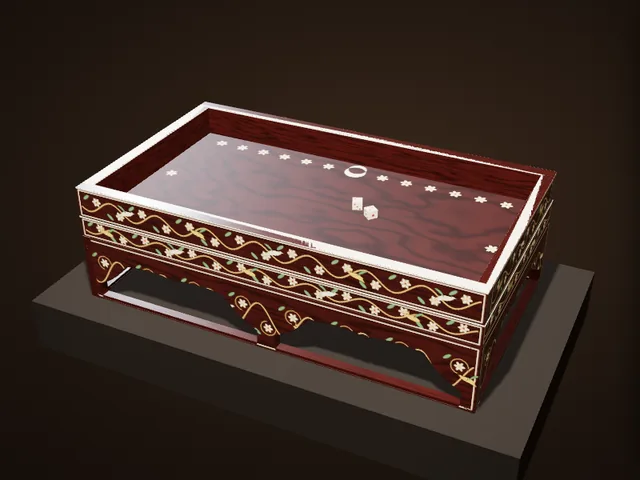
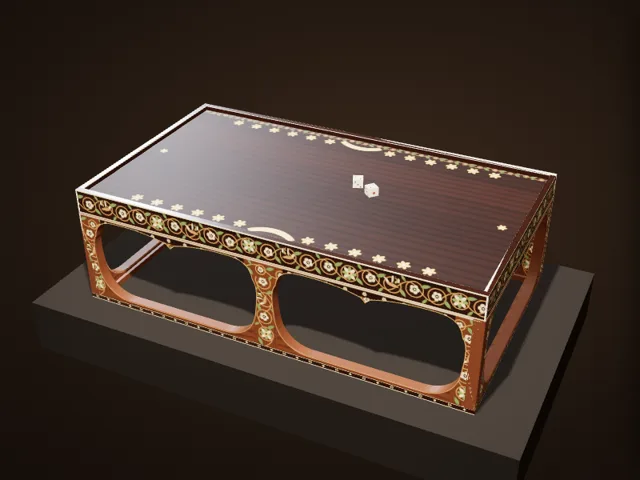
博物館：木画紫檀双六局を正倉院の写真に合わせて作り直し（床脚の刳り形とくびれた柱、盤の側面の高さ、盤面の三日月と花、木画）
Claude-Session: https://claude.ai/code/session_01EiWRAZTxRF5M5nk5vdR2jJ

diff --git a/atlas/museum/ex/sugoroku.js b/atlas/museum/ex/sugoroku.js
@@ -1,98 +1,148 @@
 /* 所蔵品：木画紫檀双六局（正倉院 北倉37） — units: 1 = 1 cm; 54.3 × 31.0 cm, 16.7 cm high (the Shōsōin's record).
-   A ban-sugoroku board listed in the Kokka chinpō-chō (the gifts of Emperor Shōmu's belongings, 756): a rectangular face of
-   shitan veneer on a wooden core, a raised rim on all four sides, the whole on a 床脚 base. On the face, an ivory crescent in the
-   middle of each long side with six marquetry flowers either side of it, and one flower in the middle of each short side — the
-   places where the pieces stand. The outer faces of the rim and the base: marquetry of flowering scrolls with birds (hoopoes,
-   sparrows) in ivory, green-stained deer antler, boxwood, ebony, shitan and bamboo. Two ivory dice (双六頭, kept apart as North 17)
-   are set on the board for reference. Estimates: the heights of base, slab and rim; the number of arches in the base; the drawing
-   of the scrolls and birds; the size and spacing of the flowers. */
+   A ban-sugoroku board listed in the Kokka chinpō-chō (the gifts of Emperor Shōmu's belongings, 756).
+   Rebuilt 2026-11-21 after the Shōsōin's photographs (CO0000000441, CO0000011755–11767): a face of dark shitan in planks along
+   the length with a low ivory-edged rim; on it a thin ivory crescent in the middle of each long side (horns to the edge) with six
+   boxwood flowers either side, one flower in the middle of each short side, and a band of scroll inside the long rims. The board's
+   edge (about 2.6 cm) is dark shitan with scrolls in bamboo-coloured strips, ivory flowers, green-stained antler leaves and flying
+   birds with striped wings, between ivory strips. Below a narrow dark strip set with small ivory rosettes, the base (床脚) is of a
+   lighter, redder wood with the same scrolls: on each long side two large openings — rounded at the bottom, their sides bowing
+   out, their tops in two shallow arcs meeting in a point — leaving slender corner legs and a waisted post in the middle; one opening
+   on each short side; the whole on a low rail set with ivory dots. Heights measured on the side photograph: edge 3.4 (rim
+   included), base 12.5, rail .8. Two ivory dice (双六頭, kept apart as North 17) are set on the board for reference. */
 (function () {
   'use strict';
   (window.AtlasEx = window.AtlasEx || {}).sugoroku = {
     build(TT, X, K) {
       const G = new TT.Group();
-      const L = 54.3, W = 31.0, H = 16.7, BASE = 9.4, SLAB = 3.0, RIM = H - BASE - SLAB, RT = 1.6;   // RIM: the rim above the face
-      const shT = K.tex(1024, 1024, (g, w, h) => K.grain(g, w, h, { a: '#4a1c14', b: '#2a0e0a', seed: 37, sx: .6, sy: 5, warp: .9, pores: .004 }));
+      const L = 54.3, W = 31.0, H = 16.7, RAIL = .8, BASE = 13.3, LIN = .9, EDGE = H - BASE, RIM = .7, RT = .7;   // LIN: the strip of rosettes at the top of the base
+      const shT = K.tex(1024, 1024, (g, w, h) => K.grain(g, w, h, { a: '#3e2016', b: '#1f0e09', seed: 37, sx: .5, sy: 9, warp: .45, pores: .004 }));
+      const baseT = K.tex(1024, 1024, (g, w, h) => K.grain(g, w, h, { a: '#7a4628', b: '#5a3018', seed: 41, sx: .5, sy: 12, warp: .3, pores: .004 }));
       const shR = K.tex(256, 256, (g, w, h) => K.grain(g, w, h, { a: '#7a7a7a', b: '#4e4e4e', seed: 38, sy: 14 }), { data: true });
-      const shitan = K.mat({ map: shT, roughnessMap: shR, color: '#ffffff', roughness: .5, clearcoat: .4, clearcoatRoughness: .35 });
+      const shitan = K.mat({ map: shT, roughnessMap: shR, color: '#ffffff', roughness: .5, clearcoat: .35, clearcoatRoughness: .35 });
+      const inner = K.mat({ map: baseT, color: '#ffffff', roughness: .55, clearcoat: .2, clearcoatRoughness: .4 });
       const ivory = K.mat({ color: '#efe4cc', roughness: .4, clearcoat: .25, clearcoatRoughness: .4 });
-      const C = { iv: '#f0e4c8', box: '#d9b46a', grn: '#6f9a6e', eb: '#1c0f0a', bam: '#c9a86a', tan: '#b98a55' };
-      /* ---------- marquetry: a flowering scroll with birds among it ---------- */
-      const flower = (g, x, y, r, a = '#f3e9d2', b = C.box) => { g.save(); g.translate(x, y);
-        for (let i = 0; i < 6; i++) { g.rotate(Math.PI / 3); g.beginPath(); g.ellipse(r * .55, 0, r * .5, r * .26, 0, 0, 6.29); g.fillStyle = i % 2 ? a : '#e2cfaa'; g.fill(); g.strokeStyle = 'rgba(40,16,8,.5)'; g.lineWidth = r * .05; g.stroke(); }
-        g.beginPath(); g.arc(0, 0, r * .24, 0, 6.29); g.fillStyle = b; g.fill(); g.restore(); };
-      const bird = (g, x, y, k, flip, crest, col) => { g.save(); g.translate(x, y); g.scale(flip ? -k : k, k); g.fillStyle = col; g.strokeStyle = 'rgba(30,12,6,.6)'; g.lineWidth = .8;
-        g.beginPath(); g.moveTo(-16, 2); g.quadraticCurveTo(-4, -9, 9, -6); g.quadraticCurveTo(14, -9, 18, -7); g.lineTo(25, -6); g.lineTo(18, -4); g.quadraticCurveTo(12, 5, -2, 6); g.lineTo(-20, 12); g.lineTo(-14, 4); g.closePath(); g.fill(); g.stroke();
-        g.fillStyle = C.grn; g.beginPath(); g.moveTo(-2, -2); g.quadraticCurveTo(-10, -20, -24, -17); g.quadraticCurveTo(-12, -8, -2, -2); g.fill(); g.stroke();   // the raised wing, in green-stained antler
-        if (crest) { g.fillStyle = C.box; g.beginPath(); g.moveTo(10, -8); g.lineTo(8, -17); g.lineTo(12, -10); g.lineTo(13, -18); g.lineTo(15, -9); g.closePath(); g.fill(); }   // a hoopoe's crest
-        g.fillStyle = C.eb; g.beginPath(); g.arc(13, -6, 1.2, 0, 6.29); g.fill(); g.restore(); };
-      const scroll = (g, w, h, s, seed) => {
-        g.drawImage(shT.image, 0, 0, w, h);
-        g.strokeStyle = C.iv; g.lineWidth = s * .12; g.strokeRect(s * .35, s * .35, w - s * .7, h - s * .7);
-        const cy = h / 2, amp = h * .22, per = s * 7;
-        g.strokeStyle = C.bam; g.lineWidth = s * .16; g.beginPath(); for (let x = s * .6; x <= w - s * .6; x += 2) { const y = cy + Math.sin(x / per * Math.PI * 2) * amp; x <= s * .6 + 1 ? g.moveTo(x, y) : g.lineTo(x, y); } g.stroke();
+      const C = { iv: '#e4d3aa', grn: '#7f9258', bam: '#c9995e', eb: '#1c0f0a', tan: '#b98a55' };
+      /* ---------- marquetry (after the detail photographs) ---------- */
+      const flower = (g, x, y, r, k = 0) => { g.save(); g.translate(x, y); g.rotate(k);
+        for (let i = 0; i < 5; i++) { g.rotate(Math.PI * 2 / 5); g.beginPath(); g.arc(r * .55, 0, r * .42, 0, 6.29); g.fillStyle = C.iv; g.fill(); g.strokeStyle = 'rgba(40,16,8,.55)'; g.lineWidth = r * .07; g.stroke(); }
+        g.beginPath(); g.arc(0, 0, r * .38, 0, 6.29); g.fillStyle = '#3a1e12'; g.fill(); g.beginPath(); g.arc(0, 0, r * .15, 0, 6.29); g.fillStyle = C.iv; g.fill(); g.restore(); };
+      const leaf = (g, x, y, r, a) => { g.save(); g.translate(x, y); g.rotate(a); g.beginPath(); g.moveTo(-r, 0); g.quadraticCurveTo(-r * .2, -r * .75, r, 0); g.quadraticCurveTo(-r * .2, r * .75, -r, 0);
+        g.fillStyle = C.grn; g.fill(); g.strokeStyle = 'rgba(40,40,10,.45)'; g.lineWidth = r * .06; g.stroke(); g.beginPath(); g.moveTo(-r * .8, 0); g.lineTo(r * .7, 0); g.stroke(); g.restore(); };
+      const bird = (g, x, y, k, flip) => { g.save(); g.translate(x, y); g.scale(flip ? -k : k, k); g.lineWidth = .8; g.strokeStyle = 'rgba(30,12,6,.6)';
+        g.fillStyle = '#b88a5a'; g.beginPath(); g.moveTo(-18, 6); g.quadraticCurveTo(-6, -4, 8, -4); g.quadraticCurveTo(14, -14, 20, -16); g.lineTo(26, -15); g.lineTo(21, -12); g.quadraticCurveTo(18, -2, 12, 4); g.quadraticCurveTo(0, 10, -18, 6); g.fill(); g.stroke();
+        // the wings raised, striped in green antler, boxwood and ebony
+        [[-2, -2, -14, -22, -24, -12], [2, 0, 4, -24, -8, -26]].forEach(([a, b, c, d, e, f], j) => { g.save(); g.beginPath(); g.moveTo(a, b); g.lineTo(c, d); g.lineTo(e, f); g.closePath(); g.clip();
+          for (let q = 0; q < 8; q++) { g.fillStyle = [C.grn, C.bam, C.eb, C.iv][q % 4]; g.fillRect(-30 + q * 4, -30, 4, 34); } g.restore(); g.beginPath(); g.moveTo(a, b); g.lineTo(c, d); g.lineTo(e, f); g.closePath(); g.stroke(); });
+        g.fillStyle = C.iv; g.beginPath(); g.moveTo(9, -4); g.quadraticCurveTo(14, -14, 20, -16); g.lineTo(26, -15); g.lineTo(21, -12); g.quadraticCurveTo(17, -4, 13, 0); g.closePath(); g.fill(); g.stroke();
+        g.fillStyle = C.eb; g.beginPath(); g.arc(19, -13, 1, 0, 6.29); g.fill(); g.restore(); };
+      // a scroll: bamboo-coloured stems in loops, flowers, leaves, now and then a bird
+      const scroll = (g, w, h, s, seed, bgT, opt = {}) => {
+        g.drawImage(bgT.image, 0, 0, w, h); let sd = seed * 7919 + 1; const rnd = () => (sd = (sd * 16807) % 2147483647) / 2147483647;
+        const cy = h / 2, amp = Math.min(h * .26, s * 1.1), per = s * (opt.per || 7);
+        g.strokeStyle = C.bam; g.lineWidth = s * .09; g.lineCap = 'round';
+        g.beginPath(); for (let x = 0; x <= w; x += 2) { const y = cy + Math.sin(x / per * Math.PI * 2) * amp; x ? g.lineTo(x, y) : g.moveTo(x, y); } g.stroke();
         let k = 0;
-        for (let x = s * .6 + per / 4; x < w - s; x += per / 2, k++) { const up = k % 2 ? 1 : -1, y = cy + up * amp;
-          // a curling tendril with a leaf and a flower at its end
-          g.strokeStyle = C.bam; g.lineWidth = s * .08; g.beginPath(); g.arc(x + per * .1, y - up * amp * .35, amp * .5, 0, Math.PI * 1.5 * (up > 0 ? 1 : -1), up < 0); g.stroke();
-          g.fillStyle = C.grn; g.beginPath(); g.ellipse(x - per * .12, y + up * amp * .1, s * .55, s * .2, up * .7, 0, 6.29); g.fill();
-          flower(g, x + per * .1, y - up * amp * .35, s * .62, C.iv, (k + seed) % 3 ? C.box : '#b4493a');
-          if ((k + seed) % 3 === 1) bird(g, x + per * .26, cy - up * amp * .1, s * .055, (k + seed) % 2, (k + seed) % 4 === 1, k % 2 ? C.iv : C.box);
+        for (let x = per / 4; x < w; x += per / 2, k++) { const up = k % 2 ? 1 : -1, y = cy + up * amp, lr = Math.min(h * .3, s * 1.15);
+          g.beginPath(); g.arc(x + per * .12, cy - up * amp * .1, lr, 0, 6.29); g.stroke();   // a loop of stem round the flower
+          const t = (k + seed) % 5;
+          if (t === 2 && opt.birds !== false) bird(g, x + per * .12, cy, Math.min(s * .045, h * .018), (k + seed) % 2);
+          else if (t === 0) { const fx = x + per * .12, fy = cy - up * amp * .1; g.save(); g.translate(fx, fy); for (let q = 0; q < 8; q++) { g.rotate(Math.PI / 4); g.beginPath(); g.ellipse(lr * .5, 0, lr * .38, lr * .2, 0, 0, 6.29); g.fillStyle = q % 2 ? C.grn : C.iv; g.fill(); }
+            g.beginPath(); g.arc(0, 0, lr * .32, 0, 6.29); g.fillStyle = '#d8b46e'; g.fill(); g.beginPath(); g.arc(0, 0, lr * .14, 0, 6.29); g.fillStyle = '#3a1e12'; g.fill(); g.restore(); }
+          else flower(g, x + per * .12, cy - up * amp * .1, lr * .62, rnd());
+          leaf(g, x - per * .14, y - up * lr * .1, s * .62, up * .6 + rnd() * .4); leaf(g, x + per * .36, y + up * lr * .25, s * .45, -up * .9);
         }
+        if (opt.edge) { g.fillStyle = C.iv; g.fillRect(0, 0, w, s * .18); g.fillRect(0, h - s * .18, w, s * .18); }
       };
-      const sideMat = (len, ht, seed) => { const s = 2048 / len; const t = K.tex(2048, Math.round(ht * s), (g, w, h) => scroll(g, w, h, s, seed));
-        return K.mat({ map: t, color: '#ffffff', roughness: .48, clearcoat: .35, clearcoatRoughness: .35 }); };
-      /* ---------- the face: crescents and flowers marking the places for the pieces ---------- */
+      const mk = (t, base) => K.mat({ map: t, color: '#ffffff', roughness: .48, clearcoat: .3, clearcoatRoughness: .35 });
+      /* ---------- the face ---------- */
       const IL = L - RT * 2, IW = W - RT * 2;
-      const faceT = K.tex(2048, Math.round(2048 * IW / IL), (g, w, h) => {
-        g.drawImage(shT.image, 0, 0, w, h); const s = w / IL;
-        g.fillStyle = 'rgba(20,4,8,.12)'; g.fillRect(0, 0, w, h);
-        const row = s * 2.4, step = (IL / 2 - 4.2) / 6;   // the flowers' distance from the long edge; their spacing (estimates)
-        [row, h - row].forEach((y, side) => {
-          // the ivory crescent in the middle of the long side, horns towards the edge
-          g.save(); g.translate(w / 2, y); if (side) g.scale(1, -1);
-          g.beginPath(); g.arc(0, 0, s * 1.5, 0, Math.PI * 2); g.arc(0, -s * .8, s * 1.3, 0, Math.PI * 2, true); g.fillStyle = '#f2e8d2'; g.fill('evenodd');
-          g.strokeStyle = 'rgba(60,30,10,.4)'; g.lineWidth = s * .05; g.stroke(); g.restore();
-          for (let i = 1; i <= 6; i++) [-1, 1].forEach(d => flower(g, w / 2 + d * (s * 2.4 + (i - .5) * step * s), y, s * .8, C.iv, i % 2 ? C.box : '#b4493a'));
+      const faceT = K.tex(2048, Math.round(2048 * IW / IL), (g, w, h) => { const s = w / IL;
+        K.grain(g, w, h, { a: '#341a11', b: '#23100a', seed: 44, sx: .25, sy: 22, warp: .1, pores: .003 });   // straight grain along the length
+        let y = 0, sd = 3; const rnd = () => (sd = (sd * 16807) % 2147483647) / 2147483647;   // planks along the length, slightly different in tone
+        while (y < h) { const ph = s * (4.5 + rnd() * 2.5); g.fillStyle = rnd() < .5 ? `rgba(0,0,0,${rnd() * .18})` : `rgba(120,50,30,${rnd() * .12})`; g.fillRect(0, y, w, ph); g.fillStyle = 'rgba(10,3,2,.5)'; g.fillRect(0, y, w, s * .04); y += ph; }
+        // a band of scroll inside each long rim (seen on the far side in the overall photograph)
+        const band = K.tex(2048, Math.round(2048 * 1.0 / IL), (g2, w2, h2) => scroll(g2, w2, h2, w2 / IL, 9, shT, { per: 4.2, birds: false }));
+        g.globalAlpha = .75; g.drawImage(band.image, 0, 0, w, s * 1.0); g.save(); g.translate(w, h); g.rotate(Math.PI); g.drawImage(band.image, 0, 0, w, s * 1.0); g.restore(); g.globalAlpha = 1;
+        const row = s * 2.0, step = s * 3.0;
+        [row, h - row].forEach((yy, side) => {
+          // a thin crescent, horns towards the edge
+          g.save(); g.translate(w / 2, yy); if (side) g.scale(1, -1);
+          g.beginPath(); g.arc(0, -s * 3.8, s * 4.5, .25 * Math.PI, .75 * Math.PI); g.arc(0, -s * 4.75, s * 4.5, .7 * Math.PI, .3 * Math.PI, true); g.closePath();
+          g.fillStyle = '#e2c47e'; g.fill(); g.strokeStyle = 'rgba(60,30,10,.45)'; g.lineWidth = s * .04; g.stroke(); g.restore();
+          for (let i = 1; i <= 6; i++) [-1, 1].forEach(d => { const fx = w / 2 + d * (s * 1.6 + i * step); g.save(); g.translate(fx, yy);
+            for (let q = 0; q < 6; q++) { g.rotate(Math.PI / 3); g.beginPath(); g.ellipse(s * .42, 0, s * .4, s * .22, 0, 0, 6.29); g.fillStyle = '#d8b46e'; g.fill(); g.strokeStyle = 'rgba(40,16,8,.5)'; g.lineWidth = s * .03; g.stroke(); }
+            g.beginPath(); g.arc(0, 0, s * .16, 0, 6.29); g.fillStyle = '#efe2c2'; g.fill(); g.restore(); });
         });
-        flower(g, s * 2.2, h / 2, s * .8, C.iv, C.box); flower(g, w - s * 2.2, h / 2, s * .8, C.iv, C.box);
+        [s * 2.2, w - s * 2.2].forEach(fx => { g.save(); g.translate(fx, h / 2); for (let q = 0; q < 6; q++) { g.rotate(Math.PI / 3); g.beginPath(); g.ellipse(s * .3, 0, s * .28, s * .16, 0, 0, 6.29); g.fillStyle = '#d8b46e'; g.fill(); } g.beginPath(); g.arc(0, 0, s * .12, 0, 6.29); g.fillStyle = '#efe2c2'; g.fill(); g.restore(); });
       });
-      const face = K.mat({ map: faceT, color: '#ffffff', roughness: .55, clearcoat: .22, clearcoatRoughness: .5 });
+      const face = K.mat({ map: faceT, color: '#ffffff', roughness: .55, clearcoat: .12, clearcoatRoughness: .45 });
       const add = (geo, m, x, y, z) => { const o = new TT.Mesh(geo, m); o.position.set(x, y, z); o.castShadow = o.receiveShadow = true; G.add(o); return o; };
-      // the slab and its face (inside the rim), the four rims with their carved outer faces and ivory-edged tops
-      const slabL = sideMat(L, SLAB, 1), slabW = sideMat(W, SLAB, 2);
-      add(new TT.BoxGeometry(L, SLAB, W), [slabW, slabW, shitan, shitan, slabL, slabL], 0, BASE + SLAB / 2, 0);
-      face.polygonOffset = true; face.polygonOffsetFactor = -2; face.polygonOffsetUnits = -2;   // (drawn over the slab's top without shimmering)
-      add(new TT.PlaneGeometry(IL, IW), face, 0, BASE + SLAB + .005, 0).rotation.x = -Math.PI / 2;
-      const rimL = sideMat(L, RIM, 3), rimW = sideMat(W, RIM, 4);
-      [[L, W / 2 - RT / 2, 0, rimL], [L, W / 2 - RT / 2, Math.PI, rimL], [W - RT * 2, L / 2 - RT / 2, Math.PI / 2, rimW], [W - RT * 2, L / 2 - RT / 2, -Math.PI / 2, rimW]].forEach(([len, off, ry, m]) => {
+      /* ---------- the board's edge (the slab with its rim, one band of marquetry outside) ---------- */
+      const edgeTex = (len, seed) => { const s = 2048 / len; return K.tex(2048, Math.round(EDGE * s), (g, w, h) => scroll(g, w, h, s, seed, shT, { edge: true, per: 5.2 })); };
+      const eL = mk(edgeTex(L, 1)), eW = mk(edgeTex(W, 2));
+      const SL = EDGE - RIM;   // the slab; the face is at BASE + SL
+      const eLs = mk(edgeTex(L, 1)), eWs = mk(edgeTex(W, 2));
+      [eLs, eWs].forEach(m => { m.map.repeat.set(1, SL / EDGE); m.map.offset.set(0, 0); });
+      add(new TT.BoxGeometry(L, SL, W), [eWs, eWs, shitan, shitan, eLs, eLs], 0, BASE + SL / 2, 0);
+      face.polygonOffset = true; face.polygonOffsetFactor = -2; face.polygonOffsetUnits = -2;
+      add(new TT.PlaneGeometry(IL, IW), face, 0, BASE + SL + .004, 0).rotation.x = -Math.PI / 2;
+      [eL, eW].forEach(m => { m.map = m.map.clone(); m.map.repeat.set(1, RIM / EDGE); m.map.offset.set(0, SL / EDGE); m.map.needsUpdate = true; });
+      [[L, W / 2 - RT / 2, 0, eL], [L, W / 2 - RT / 2, Math.PI, eL], [W - RT * 2, L / 2 - RT / 2, Math.PI / 2, eW], [W - RT * 2, L / 2 - RT / 2, -Math.PI / 2, eW]].forEach(([len, off, ry, m]) => {
         const g = new TT.Group(); g.rotation.y = ry; G.add(g);
-        const r = new TT.Mesh(new TT.BoxGeometry(len, RIM, RT), [shitan, shitan, shitan, shitan, m, shitan]); r.position.set(0, BASE + SLAB + RIM / 2, off); r.castShadow = r.receiveShadow = true; g.add(r);
-        const e = new TT.Mesh(new TT.BoxGeometry(len + .02, .18, RT + .02), ivory); e.position.set(0, H - .09, off); g.add(e); });
-      // ivory strips where the rim meets the slab, outside
-      [[L + .1, .14, 0, W / 2 + .03], [L + .1, .14, 0, -W / 2 - .03], [.14, W + .1, L / 2 + .03, 0], [.14, W + .1, -L / 2 - .03, 0]].forEach(([a, b, x, z]) => add(new TT.BoxGeometry(a, .16, b), ivory, x, BASE + SLAB, z));
-      /* ---------- the 床脚 base: skirts cut with cusped arches (two on the long sides, one on the short — estimate) ---------- */
-      const arch = (cx, w, h) => { const p = new TT.Path(), x0 = cx - w / 2, x1 = cx + w / 2;
-        p.moveTo(x0 + .5, 0); p.lineTo(x1 - .5, 0); p.quadraticCurveTo(x1, .1, x1 - .1, h * .35); p.quadraticCurveTo(x1 - w * .12, h * .55, x1 - w * .2, h - .5);
-        p.quadraticCurveTo(cx + w * .12, h + .1, cx + w * .02, h - .55); p.quadraticCurveTo(cx, h - .2, cx - w * .02, h - .55); p.quadraticCurveTo(cx - w * .12, h + .1, x0 + w * .2, h - .5);
-        p.quadraticCurveTo(x0 + w * .12, h * .55, x0 + .1, h * .35); p.quadraticCurveTo(x0, .1, x0 + .5, 0); return p; };
-      const skirt = (len, n) => { const S = new TT.Shape(); S.moveTo(-len / 2, 0); S.lineTo(len / 2, 0); S.lineTo(len / 2, BASE); S.lineTo(-len / 2, BASE); S.closePath();
-        const aw = (len - 3.2 - (n - 1) * 2.2) / n; for (let i = 0; i < n; i++) S.holes.push(arch(-len / 2 + 1.6 + aw / 2 + i * (aw + 2.2), aw, BASE - 2.4));
-        return new TT.ExtrudeGeometry(S, { depth: 1.2, bevelEnabled: true, bevelThickness: .08, bevelSize: .08, bevelSegments: 2, curveSegments: 12 }); };
-      const legM = (len, seed) => { const m = sideMat(len, BASE, seed); m.map.repeat.set(1 / len, 1 / BASE); m.map.offset.set(.5, 0); return m; };
-      const lL = legM(L, 5), lW = legM(W, 6), gL = skirt(L, 2), gW = skirt(W, 1);
-      [[gL, lL, 0, W / 2 - 1.2, 0], [gL, lL, 0, -W / 2 + 1.2, Math.PI], [gW, lW, L / 2 - 1.2, 0, Math.PI / 2], [gW, lW, -L / 2 + 1.2, 0, -Math.PI / 2]].forEach(([geo, m, x, z, ry]) => {
-        const o = new TT.Mesh(geo, [m, shitan]); o.rotation.y = ry; o.position.set(x, 0, z); o.castShadow = o.receiveShadow = true; G.add(o); });
-      add(new TT.BoxGeometry(L - 2.4, .6, W - 2.4), shitan, 0, BASE - .3, 0);
-      // a low floor rail under the feet (the bottom of the 床脚)
-      [[L, W / 2 - .6], [L, -W / 2 + .6]].forEach(([len, z]) => add(new TT.BoxGeometry(len, .5, 1.2), shitan, 0, .25, z));
-      [[L / 2 - .6], [-L / 2 + .6]].forEach(([x]) => add(new TT.BoxGeometry(1.2, .5, W - 2.4), shitan, x, .25, 0));
+        const r = new TT.Mesh(new TT.BoxGeometry(len, RIM, RT), [shitan, shitan, shitan, shitan, m, shitan]); r.position.set(0, BASE + SL + RIM / 2, off); r.castShadow = r.receiveShadow = true; g.add(r);
+        const e = new TT.Mesh(new TT.BoxGeometry(len + .02, .12, RT + .02), ivory); e.position.set(0, H - .06, off); g.add(e); });
+      [[1, 1], [1, -1], [-1, 1], [-1, -1]].forEach(([a, b]) => add(new TT.BoxGeometry(.2, EDGE, .2), ivory, a * (L / 2 - .08), BASE + EDGE / 2, b * (W / 2 - .08)));   // ivory strips on the corners
+      /* ---------- the base: openings with bowed sides and two-arched tops, a waisted post on the long sides ---------- */
+      const SK = BASE - RAIL, OT = SK - .35;   // skirt height, the openings' top
+      const opening = (x0, x1) => { const p = new TT.Path(), cx = (x0 + x1) / 2, rx = 4.2, ry = 5.2, bow = 1.1, top = OT;
+        // the bottom corners in long curves (the legs and the post flare out to their feet), the sides bowing out, the top in two arcs
+        // meeting in a hanging point (photographs)
+        p.moveTo(x0 + rx, .4); p.lineTo(x1 - rx, .4); p.bezierCurveTo(x1 - rx * .3, .4, x1 + bow * .4, ry * .45, x1 + bow * .55, ry); p.quadraticCurveTo(x1 + bow, (ry + top) / 2, x1 + .3, top - 2.6);
+        p.quadraticCurveTo(x1, top - .2, x1 - 2.6, top - .1);
+        p.quadraticCurveTo(cx + (x1 - cx) * .35, top + .1, cx + .6, top - .9); p.lineTo(cx, top - 1.5); p.lineTo(cx - .6, top - .9);
+        p.quadraticCurveTo(cx - (cx - x0) * .35, top + .1, x0 + 2.6, top - .1); p.quadraticCurveTo(x0, top - .2, x0 - .3, top - 2.6);
+        p.quadraticCurveTo(x0 - bow, (ry + top) / 2, x0 - bow * .55, ry); p.bezierCurveTo(x0 - bow * .4, ry * .45, x0 + rx * .3, .4, x0 + rx, .4); return p; };
+      const skirtFor = (len, n) => { const S = new TT.Shape(); S.moveTo(-len / 2, 0); S.lineTo(len / 2, 0); S.lineTo(len / 2, SK); S.lineTo(-len / 2, SK); S.closePath();
+        const LEG = 2.6, POST = 3.8, ow = (len - 2 * LEG - (n - 1) * POST) / n;
+        for (let i = 0; i < n; i++) { const x0 = -len / 2 + LEG + i * (ow + POST); S.holes.push(opening(x0, x0 + ow)); }
+        return S; };
+      const baseTex = (len, n, seed) => { const S = skirtFor(len, n), s = 2048 / len; return K.tex(2048, Math.round(SK * s), (g, w, h) => {
+        g.drawImage(baseT.image, 0, 0, w, h);
+        // vertical scrolls up the corner legs and the post (where the wood stands between the openings)
+        const LEG = 2.6, POST = 3.8, nO = S.holes.length, ow = (len - 2 * LEG - (nO - 1) * POST) / nO, cols = [LEG * .55, len - LEG * .55];
+        for (let i = 1; i < nO; i++) cols.push(LEG + i * ow + (i - .5) * POST);
+        const vs = K.tex(512, Math.round(512 * 3.4 / SK), (g2, w2, h2) => scroll(g2, w2, h2, w2 / SK, seed, baseT, { per: 5.2 }));
+        cols.forEach(cxm => { g.save(); g.translate(cxm * s, h); g.rotate(-Math.PI / 2); g.globalAlpha = 1; g.drawImage(vs.image, 0, -s * 1.7, h, s * 3.4); g.restore(); });
+        // across the top, between the openings and the edge, a running scroll
+        const hs = K.tex(2048, Math.round(2048 * 2.2 / len), (g2, w2, h2) => scroll(g2, w2, h2, w2 / len, seed + 3, baseT, { per: 5.5, birds: false }));
+        g.drawImage(hs.image, 0, s * .1, w, s * 2.2);
+        // the strip of rosettes along the top
+        g.fillStyle = C.iv; g.fillRect(0, 0, w, s * .14);
+        S.holes.forEach(hp => { const xs = hp.getPoints(30).map(p => p.x), xa = (Math.min(...xs) + len / 2) * s, xb = (Math.max(...xs) + len / 2) * s;   // over each opening, a dark strip with rosettes
+          g.fillStyle = '#2a140c'; g.fillRect(xa + s * 1.5, s * .14, xb - xa - s * 3, LIN * s); for (let x = xa + s * 2.4; x < xb - s * 2; x += s * 2.4) flower(g, x, s * .14 + LIN * s * .5, s * .26, x); });
+        // a bamboo strip following each opening, ivory down the corners
+        g.strokeStyle = C.bam; g.lineWidth = s * .14; S.holes.forEach(hp => { g.beginPath(); hp.getPoints(30).forEach((p, i) => { const X = (p.x + len / 2) * s, Y = h - p.y * s; i ? g.lineTo(X, Y) : g.moveTo(X, Y); }); g.closePath(); g.stroke(); });
+        g.fillStyle = C.iv; g.fillRect(0, 0, s * .18, h); g.fillRect(w - s * .18, 0, s * .18, h);
+      }); };
+      const baseMat = (len, n, seed) => { const t = baseTex(len, n, seed); t.repeat.set(1 / len, 1 / SK); t.offset.set(.5, 0); return mk(t); };
+      const geoFor = (len, n) => new TT.ExtrudeGeometry(skirtFor(len, n), { depth: 1.3, bevelEnabled: true, bevelThickness: .06, bevelSize: .06, bevelSegments: 1, curveSegments: 14 });
+      const gL = geoFor(L, 2), gW = geoFor(W, 1), mL = baseMat(L, 2, 5), mW = baseMat(W, 1, 6);
+      [[gL, mL, 0, W / 2 - 1.3, 0], [gL, mL, 0, -W / 2 + 1.3, Math.PI], [gW, mW, L / 2 - 1.3, 0, Math.PI / 2], [gW, mW, -L / 2 + 1.3, 0, -Math.PI / 2]].forEach(([geo, m, x, z, ry]) => {
+        const o = new TT.Mesh(geo, [m, inner]); o.rotation.y = ry; o.position.set(x, RAIL, z); o.castShadow = o.receiveShadow = true; G.add(o); });
+      add(new TT.BoxGeometry(L - 2.6, .5, W - 2.6), inner, 0, BASE - .25, 0);
+      // the low rail: dark, with ivory edges and a row of ivory dots and little lozenges
+      const railT = (len) => { const s = 2048 / len; return K.tex(2048, Math.max(8, Math.round(RAIL * s)), (g, w, h) => { g.drawImage(shT.image, 0, 0, w, h);
+        g.fillStyle = C.iv; g.fillRect(0, 0, w, h * .12); g.fillRect(0, h * .88, w, h * .12);
+        for (let x = s * .9, i = 0; x < w; x += s * 1.8, i++) { if (i % 2) { g.save(); g.translate(x, h / 2); g.rotate(Math.PI / 4); g.fillRect(-h * .14, -h * .14, h * .28, h * .28); g.restore(); } else { g.beginPath(); g.arc(x, h / 2, h * .2, 0, 6.29); g.strokeStyle = C.iv; g.lineWidth = h * .08; g.stroke(); } } }); };
+      const rL = mk(railT(L)), rW = mk(railT(W));
+      [[L, 1.8, 0, W / 2 - .9, 0], [L, 1.8, 0, -W / 2 + .9, Math.PI]].forEach(([len, d, x, z]) => add(new TT.BoxGeometry(len, RAIL, d), [rL, rL, inner, inner, z > 0 ? rL : inner, z > 0 ? inner : rL], x, RAIL / 2, z));
+      [[1.8, W - 3.6, L / 2 - .9, 0], [1.8, W - 3.6, -L / 2 + .9, 0]].forEach(([wd, d, x]) => add(new TT.BoxGeometry(wd, RAIL, d), [x > 0 ? rW : inner, x > 0 ? inner : rW, inner, inner, inner, inner], x, RAIL / 2, 0));
       /* ---------- two ivory dice (双六頭, ~1.35 cm; opposite faces add up to 7) ---------- */
       const pipT = n => K.tex(128, 128, (g, w) => { g.fillStyle = '#efe3c6'; g.fillRect(0, 0, w, w); g.fillStyle = n === 1 ? '#a8322a' : '#2a1a10';
         const P = { 1: [[.5, .5]], 2: [[.28, .28], [.72, .72]], 3: [[.25, .25], [.5, .5], [.75, .75]], 4: [[.28, .28], [.72, .28], [.28, .72], [.72, .72]], 5: [[.25, .25], [.75, .25], [.5, .5], [.25, .75], [.75, .75]], 6: [[.28, .22], [.72, .22], [.28, .5], [.72, .5], [.28, .78], [.72, .78]] }[n];
         P.forEach(([x, y]) => { g.beginPath(); g.arc(x * w, y * w, w * (n === 1 ? .14 : .09), 0, 6.29); g.fill(); }); });
       const dieM = [1, 6, 2, 5, 3, 4].map(n => K.mat({ map: pipT(n), color: '#ffffff', roughness: .38, clearcoat: .3 }));   // +x 1 / −x 6, +y 2 / −y 5, +z 3 / −z 4
-      [[4.5, -2.0, .4, .3], [7.0, -.6, -.7, 1.1]].forEach(([x, z, r1, r2]) => { const d = add(new TT.BoxGeometry(1.35, 1.35, 1.35), dieM, x, BASE + SLAB + .68, z); d.rotation.set(0, r1, 0); });
+      [[4.5, -2.0, .4, .3], [7.0, -.6, -.7, 1.1]].forEach(([x, z, r1, r2]) => { const d = add(new TT.BoxGeometry(1.35, 1.35, 1.35), dieM, x, BASE + EDGE - RIM + .68, z); d.rotation.set(0, r1, 0); });
       return G;
     },
   };

diff --git a/atlas/museum/gallery-ja.js b/atlas/museum/gallery-ja.js
@@ -48,10 +48,10 @@
       spots: [['象牙の三日月', '長い辺の中央に、象牙で表した三日月。盤のちょうど半分の位置を示す目印です。'],
         ['花の目印', '三日月の左右に木画の花が6つずつ、長い辺に12ずつ。駒を並べる位置を示しています。'],
         ['短い辺の花', '短い辺の中央にも花が1つずつあります。'],
-        ['立ち上がりの花鳥', '立ち上がりの外側には、花唐草のあいだを鳥が飛び交う木画。ヤツガシラやスズメの姿が、羽まで細かく表されています。'],
-        ['床脚', '盤を支える床脚の外側にも、立ち上がりと同じ花と鳥の木画がほどこされています。'],
+        ['盤の側面の花鳥', '盤の側面には、竹の細い線で描いた唐草に象牙の花と緑に染めた鹿角の葉、そして縞模様の翼を広げて飛ぶ鳥の木画。'],
+        ['床脚', '少し明るい色の床脚は、長い辺に大きな刳り形が2つ。くびれた中央の柱と細い隅の脚にも唐草の木画がほどこされています。'],
         ['さいころ（双六頭）', '正倉院には象牙のさいころ「双六頭」も別に伝わります（北倉17、一辺1.3〜1.4cm）。向かい合う面の目を足すと7になるのは今と同じ。ここでは参考に2つ置いています。']],
-      model: '大きさ（54.3×31.0×16.7cm）、立ち上がりと床脚のある形、紫檀と木画の材料、盤面の三日月と花の数と配置、花鳥の題材は記録と解説に従いました。床脚・盤板・立ち上がりの高さの配分、床脚の格狭間の数、花と鳥と唐草の描き方、花の大きさと間隔は推定です。さいころは参考として置いたもので、盤といっしょに置かれているわけではありません。',
+      model: '正倉院が公開している写真（全体・各側面・細部）と見比べて作り直しました。大きさ（54.3×31.0×16.7cm）、盤面の板目と低い縁、三日月と花の数と配置、盤の側面と床脚の高さの配分、床脚の刳り形（長い辺に2つ、短い辺に1つ）とくびれた柱、下の框の象牙の点、木画の題材と色は写真に合わせています。唐草・花・鳥の一つ一つの描き方は推定です。さいころは参考として置いたもので、盤といっしょに置かれているわけではありません。',
       src: [['正倉院「木画紫檀双六局」', 'https://shosoin.kunaicho.go.jp/treasures/?id=0000010086&index=10'], ['正倉院展「悠久の輝き（前編）」（盤面の三日月と花）', 'https://shosoin-ten.jp/articles/detail/000453.html'], ['正倉院展「木画紫檀双六局」', 'https://shosoin-ten.jp/info/treasures/000414/'], ['奈良新聞「時を超えたたからもの(2)」', 'https://www.nara-np.co.jp/news/20251103211942.html']] },
     pyrgus: { name: 'ヴェットヴァイス＝フロイツハイムのダイスタワー', alt: 'ローマのダイスタワー（turricula / pyrgus）', date: '4世紀', where: 'ドイツ（ローマ帝国・ゲルマニア属州）', found: 'ヴェットヴァイス＝フロイツハイム近くのローマのヴィラ跡。1983年に銅の板の形で見つかり、博物館で組み立て直された',
       museum: 'ボン・ライン州立博物館', no: 'Inv. 85.0269.00', mat: '銅合金の板', size: '高さ22cm・幅9cm・奥行き9cm',

diff --git a/atlas/museum/gallery-en.js b/atlas/museum/gallery-en.js
@@ -47,10 +47,10 @@
       spots: [['The ivory crescent', 'In the middle of each long side, a crescent moon in ivory: the mark of the halfway point.'],
         ['The flower marks', 'Six marquetry flowers either side of the crescent, twelve along each long side: the places where the pieces are set out.'],
         ['The flower on the short side', 'One flower sits in the middle of each short side too.'],
-        ['Birds on the rim', 'The outer face of the rim: birds flying among flowering scrolls in marquetry — hoopoes and sparrows, down to the feathers.'],
-        ['The base', 'The outer faces of the base carry the same marquetry of flowers and birds as the rim.'],
+        ['Birds on the edge', 'The edge of the board: scrolls drawn in thin bamboo strips, ivory flowers, leaves of green-stained antler, and birds flying with striped wings spread.'],
+        ['The base', 'The base, in a lighter wood, is cut away in two large openings on each long side, leaving a waisted post in the middle and slender corner legs, all set with scrolls.'],
         ['The dice', 'The Shōsōin also keeps ivory dice (North Section 17, about 1.3–1.4 cm a side). As today, opposite faces add up to seven. Two are set here for reference.']],
-      model: 'The size (54.3 × 31.0 × 16.7 cm), the rim and base, the materials, the number and placing of the crescents and flowers, and the subjects of the marquetry follow the record and the published notes. How the height divides between base, board and rim, the number of arches in the base, the drawing of the flowers, birds and scrolls, and the size and spacing of the flowers are estimates. The dice are set out for reference; they are not kept with the board.',
+      model: 'Rebuilt by comparing with the Shōsōin\'s published photographs (overall, each side, details). The size (54.3 × 31.0 × 16.7 cm), the planked face and low rim, the number and placing of the crescents and flowers, how the height divides between the board\'s edge and the base, the openings of the base (two on the long sides, one on the short) with the waisted post, the ivory dots on the bottom rail, and the subjects and colours of the marquetry follow the photographs. How each scroll, flower and bird is drawn is an estimate. The dice are set out for reference; they are not kept with the board.',
       src: [['Shōsōin, "木画紫檀双六局"', 'https://shosoin.kunaicho.go.jp/treasures/?id=0000010086&index=10'], ['Shōsōin Exhibition, "悠久の輝き（前編）" (the crescents and flowers)', 'https://shosoin-ten.jp/articles/detail/000453.html'], ['Shōsōin Exhibition, "木画紫檀双六局"', 'https://shosoin-ten.jp/info/treasures/000414/'], ['Nara Shimbun, "時を超えたたからもの(2)"', 'https://www.nara-np.co.jp/news/20251103211942.html']] },
     pyrgus: { name: 'The Vettweiss-Froitzheim Dice Tower', alt: 'A Roman dice tower (turricula / pyrgus)', date: '4th century AD', where: 'Germany (Roman Germania)', found: 'A Roman villa site near Vettweiss-Froitzheim; found in 1983 as copper plates and reassembled by the museum',
       museum: 'Rheinisches Landesmuseum Bonn', no: 'Inv. 85.0269.00', mat: 'Copper-alloy plate', size: 'H 22 cm · 9 × 9 cm',

diff --git a/atlas/museum/gallery.js b/atlas/museum/gallery.js
@@ -10,7 +10,7 @@
    (a turn, a zoom, the slow turntable) and never while the window is in the background. */
 (function () {
   'use strict';
-  const V = 15;
+  const V = 16;
   /* ---------- the pieces: id, the game it belongs to, its scale (cm per model unit), the camera's start, the details ----------
      lock: { game, ach } → open after that many achievements of the game. src: the files the piece needs (besides ex/<id>.js) */
   const EX = [
@@ -19,7 +19,7 @@
     { id: 'senet', game: 'senet', cm: 1, view: [.62, .4, .9], spots: [[-11, 28.4, -3.5], [17, 28.4, 4], [-6, 23.6, 7.2], [28.5, 24.2, 0], [23.6, 3.6, 7.4], [-10, 1.5, 7.6], [-2, .9, 13.8]] },
     { id: 'shosoin', game: 'go', cm: 1, view: [.35, .58, .82], spots: [[0, 12.8, 0], [-15.5, 12.8, -15.5], [0, 10.4, 24.6], [27.4, 10.2, 15.8], [32.2, 10.0, 15.8], [-14, .8, 23.2]] },
     { id: 'sugoroku', game: 'backgammon', cm: 1, view: [.45, .55, .92],
-      spots: [[0, 12.45, 11.5], [-12, 12.45, 11.5], [-23.35, 12.45, 0], [8, 14.6, 15.55], [-8, 5, 15.5], [5.7, 13.2, -1.3]] },
+      spots: [[0, 16.0, 12.6], [-12.4, 16.0, 12.8], [-24.2, 16.0, 0], [8, 14.8, 15.55], [-17, 7, 15.5], [5.7, 16.7, -1.3]] },
     { id: 'pyrgus', game: 'backgammon', cm: 1, view: [.55, .32, 1], spots: [[0, 18.6, 4.6], [4.6, 20.4, 0], [0, 12, 0], [0, 3.2, 4.6], [1.4, .9, 6.3]] },
     { id: 'ballinderry', game: 'tafl', cm: 1, view: [.2, .78, .95],
       spots: [[0, 1.05, 0], [-7.05, 1.05, -7.05], [-6, 2.55, -10.45], [-6, 2.55, 10.45], [-14.6, 1.6, 0], [13.6, 1.4, 0], [4, 1.05, 1.1]] },

diff --git a/atlas/museum.js b/atlas/museum.js
@@ -32,7 +32,7 @@
   const ROOMS = [
     { id: 'map', ready: () => !!window.AtlasMap, render: (el, c) => AtlasMap.render(el, c) },
     { id: 'tree', src: ['museum/tree.js?v=2'], ready: () => !!window.AtlasTree, render: (el, c) => AtlasTree.render(el, c) },
-    { id: 'gallery', src: ['museum/gallery.js?v=15'], ready: () => !!window.AtlasGallery, render: (el, c) => AtlasGallery.render(el, c) },
+    { id: 'gallery', src: ['museum/gallery.js?v=16'], ready: () => !!window.AtlasGallery, render: (el, c) => AtlasGallery.render(el, c) },
   ];
   const KEY = 'atlas-museum-room';
   const esc = s => String(s == null ? '' : s).replace(/[&<>"]/g, c => ({ '&': '&amp;', '<': '&lt;', '>': '&gt;', '"': '&quot;' }[c]));

diff --git a/atlas/index.html b/atlas/index.html
@@ -2559,7 +2559,7 @@ window.AtlasRgdTimer = function (btn, ms, alive) {
 <link rel="stylesheet" href="worldmap.css?v=19">
 <link rel="stylesheet" href="museum.css?v=4">
 <script src="worldmap.js?v=40"></script>
-<script src="museum.js?v=16"></script>
+<script src="museum.js?v=17"></script>
 <script src="npc/npc.js?v=46"></script>
 <script src="avtalk.js?v=4"></script>
 <script>/* Page states as classes on <html> (2026-11-21) — html.cov-on: the 3D view / Historia / a sheet / a level sheet is open;

diff --git a/claude/museum-spec.md b/claude/museum-spec.md
@@ -48,6 +48,7 @@
     記録：オスマン帝国の盤（バックギャモン面、V&A の写真 2012FP3720）total 18.9 → 35.0（2026-11-21、帯とメダイヨンを写真の透かし彫りに合わせた）。
     記録：木画紫檀棊局（正倉院の写真 CO0000000418〜436）上面 total 59.2 → 71.4、側面B（429）18.1 → 31.7（2026-11-21、盤面の余白と花眼、木画の筋、側面の菱文帯と狩猟図、床脚の刳り形・畳摺・引き出しの位置を写真に合わせた）。
     記録：セネト（エジプト博物館の正面写真、Global Egyptian Museum 15033）total 27.4 → 38.1（2026-11-21、木の色、銘文の帯、脚の形、金の円筒、そりの反り、盤上の駒、開けた引き出し）。
+    記録：木画紫檀双六局（正倉院の側面写真 CO0000011755）total 14.8 → 38.3（2026-11-21、盤の側面と床脚の高さ配分、床脚の刳り形とくびれた柱、明るい床脚の材、盤面の板目・三日月・花、木画の鳥と唐草）。
   - スマホで遠目に見たときのちらつき・白飛びがないこと（カメラの near/far を狭く、テクスチャはミップマップと異方性フィルタ、トーンマップの露出 .85、重なる面は polygonOffset）。
 - 収蔵品（2026-11-21）：
   - ウルの王族のゲーム盤（大英博物館 120834）— ポータルのウルの3D盤（`atlas/models/ur.js`）をそのまま使う（実物そっくりの出来）。
